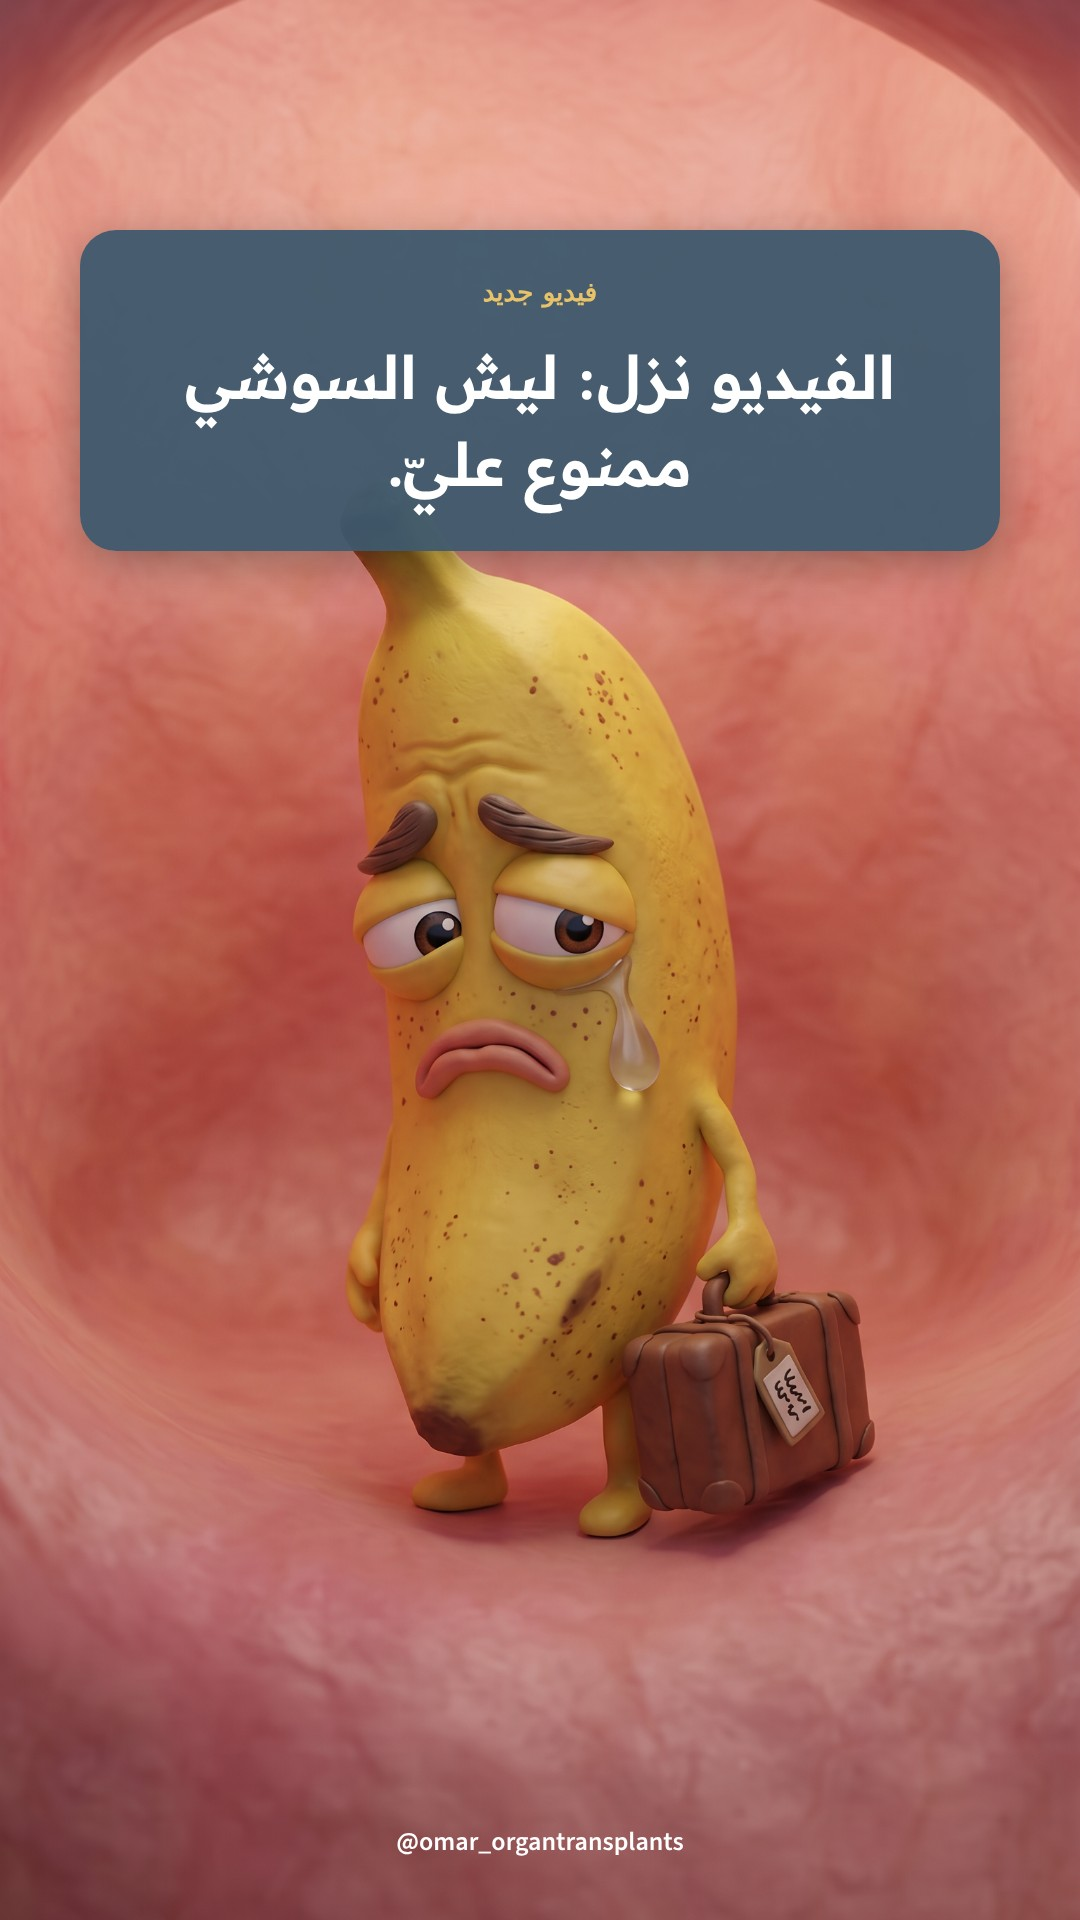
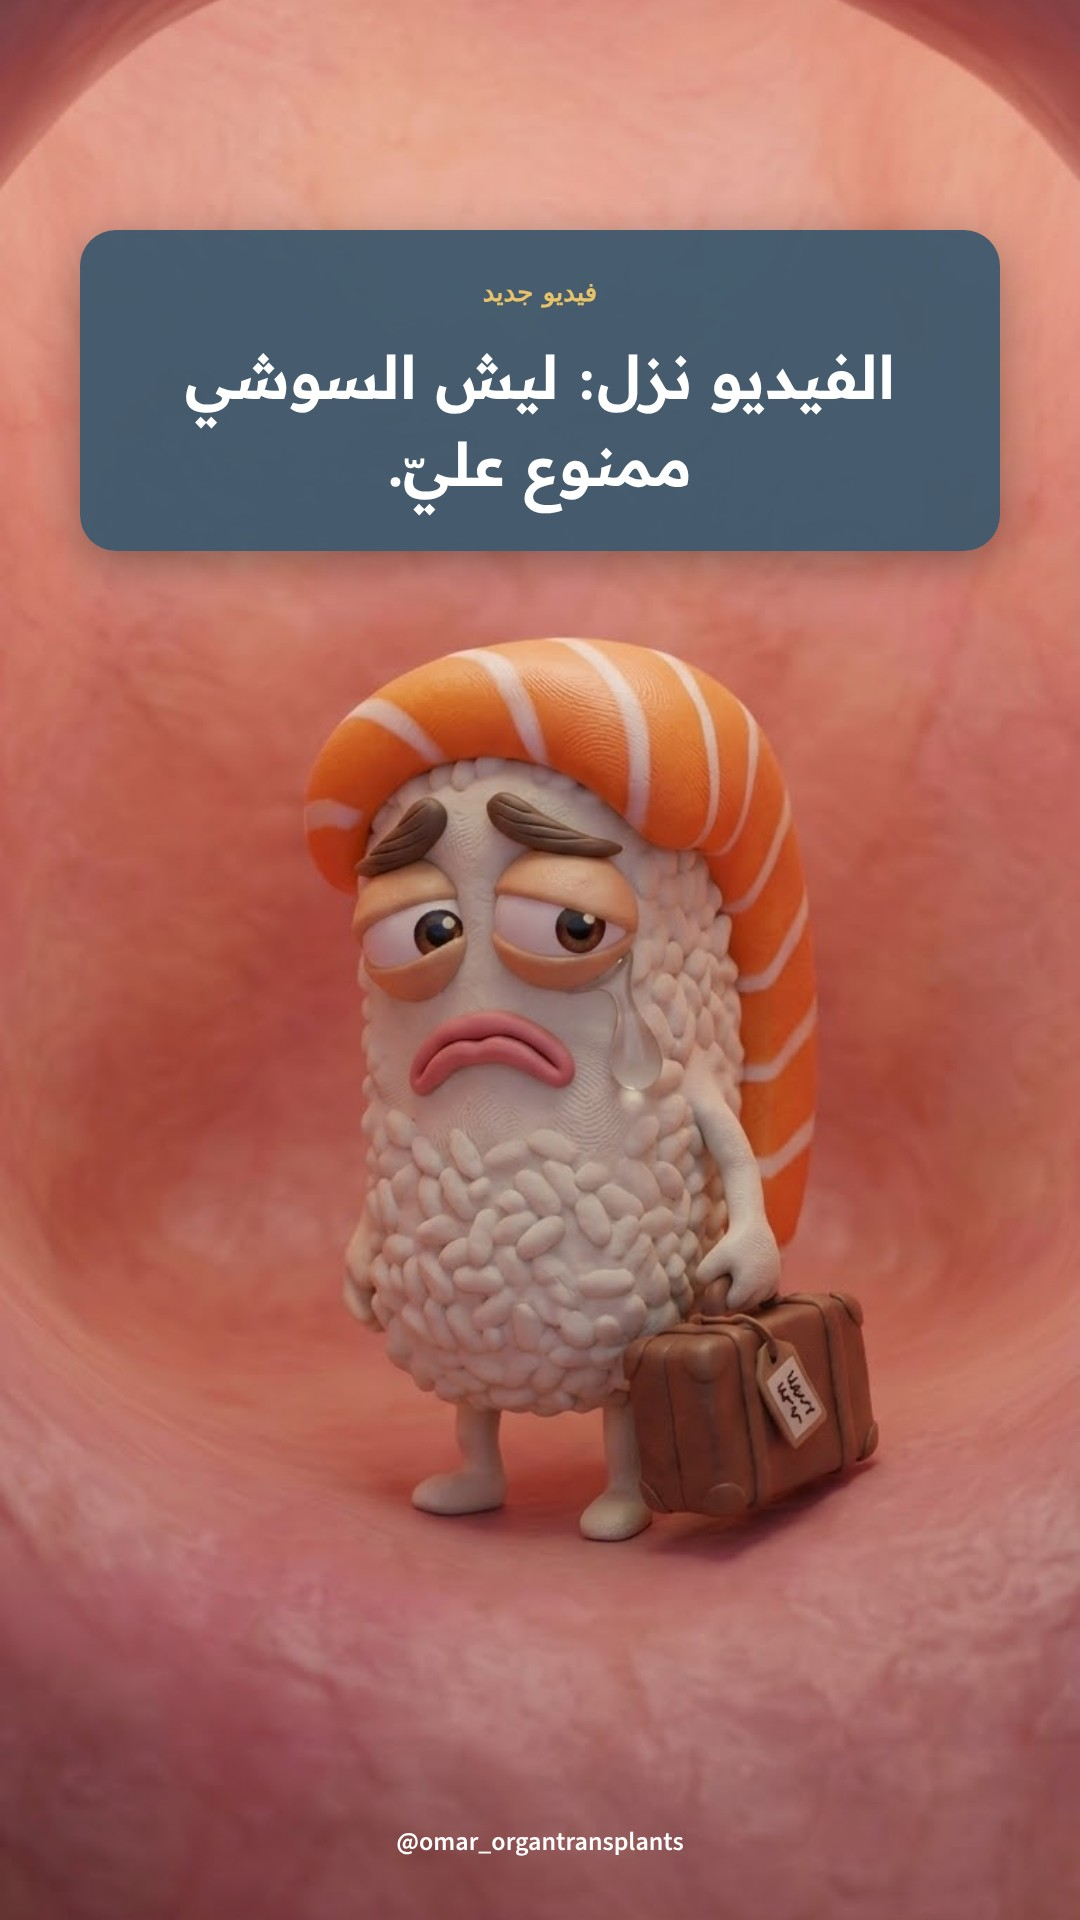
D1123b: sushi instead of banana (Omar's Nano Banana image, refs/sushi_master.jpg)
Claude-Session: https://claude.ai/code/session_015KYtjHWN3uBuypcacTLYYr

diff --git a/IMAGES.md b/IMAGES.md
@@ -17,6 +17,7 @@ Every image, what it shows, and when to use it. Check this before choosing an im
 | bone_master.jpg | Cracked bone | bones, calcium, phosphorus, parathyroid |
 | machine_master.png | Dialysis machine with tubes for arms | dialysis, fistula, the chair |
 | banana_master.png | Sad banana with a suitcase | potassium, banned dialysis foods |
+| sushi_master.jpg | Sad salmon nigiri with a suitcase (made by Omar in Nano Banana, 17 Nov) | raw food / sushi off the plate after transplant, banned foods after transplant |
 | bladder_style.jpg | The bladder in a hammock, water splashing, alarm clock | bladder, water, peeing again after transplant |
 | intestines_master.jpg | Intestines with the surgical team | day two after surgery, waiting to pass gas, gut |
 | testosterone_master.png | Tired testosterone at the gym, aunties watching, low battery | testosterone, men's health |
